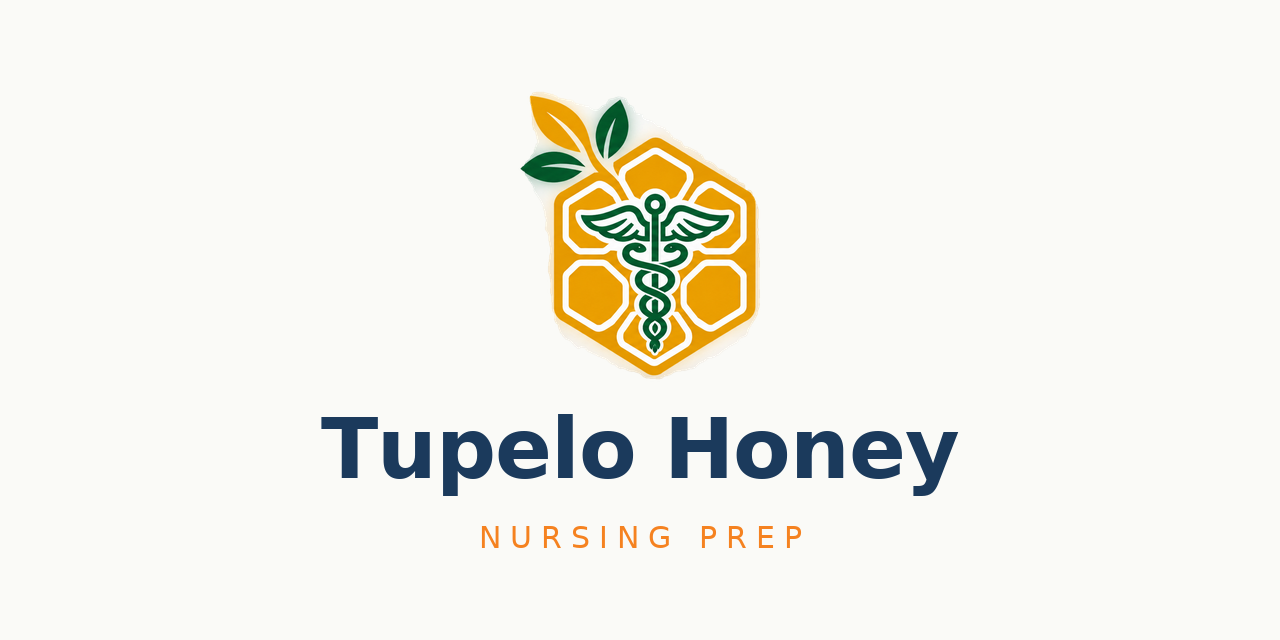
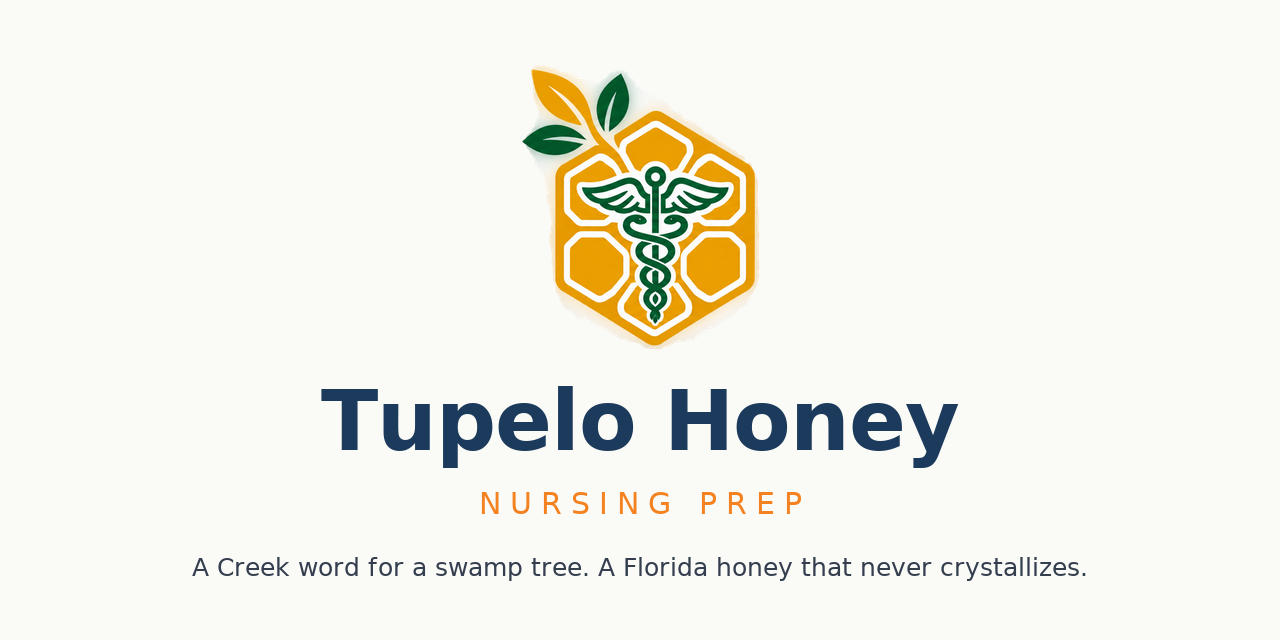
Add the Tupelo Honey naming story to the landing page, README, and card
Landing page: a Why Tupelo Honey band placed directly after the value-prop
section, paying off the honey language the page already uses, plus a FAQ entry.
README: the full etymology with sources, and an explicit statement of what we
do not claim (the ethnobotany record documents tupelo BARK as medicine, not the
honey; honeybees are not native to the Americas).
Card: regenerated with the tagline so the naming story travels with the image.

Changed region(s): [[0.1562, 0.0938, 0.8438, 0.9062]]

diff --git a/templates/landing.html b/templates/landing.html
@@ -261,6 +261,17 @@
   </div>
 </section>
 
+<section id="why-tupelo">
+  <div class="wrap">
+    <div class="sec-head">
+      <h2>Why Tupelo Honey</h2>
+      <p>The name is Creek: <em>ito</em>, tree, and <em>opilwa</em>, swamp&mdash;the tree that grows with its feet in the water. Southeastern peoples used the tupelo as medicine long before anyone kept bees on this continent.</p>
+      <p style="margin-top:16px">The honey is Florida&rsquo;s own. White tupelo blooms about two weeks a year along the Apalachicola, and it makes the one honey that stays clear when every other honey hardens. It does not crystallize. It does not spoil.</p>
+      <p style="margin-top:16px">That is the standard this app holds to. Clear, and it keeps.</p>
+    </div>
+  </div>
+</section>
+
 <section class="about">
   <div class="wrap">
     <div class="sec-head">
@@ -388,6 +399,10 @@
       <details>
         <summary>Who made Tupelo?</summary>
         <div class="a">Muata Kamdibe, Sr., a veteran educator with over 25 years of collegiate teaching and tutoring-center leadership.</div>
+      </details>
+      <details>
+        <summary>Why is it called Tupelo Honey?</summary>
+        <div class="a">Tupelo is a Creek word: <em>ito</em> (tree) and <em>opilwa</em> (swamp). Southeastern peoples used the tupelo tree as medicine long before honeybees reached this continent. Florida&rsquo;s white tupelo honey is the one honey that stays clear instead of crystallizing&mdash;the standard we hold this app to.</div>
       </details>
     </div>
   </div>

diff --git a/README.md b/README.md
@@ -19,6 +19,31 @@ link — that's the whole gate.
 
 ---
 
+## Why Tupelo Honey
+
+The name is Creek: *ito*, tree, and *opilwa*, swamp. The tree that grows with its
+feet in the water. Southeastern peoples used the tupelo as medicine long before
+anyone kept bees on this continent.
+
+Tupelo honey is Florida's own. White tupelo (*Nyssa ogeche*) blooms for about two
+weeks a year along the lower Apalachicola, around Wewahitchka. It makes the one
+honey that stays clear when every other honey hardens, because its
+fructose-to-glucose ratio is the highest of any commercial honey, about 1.65:1
+(USDA dataset compiled by Jonathan W. White Jr., 1975). It does not crystallize.
+It does not spoil.
+
+That is the standard this app holds to.
+
+**What we do not claim.** The ethnobotany record documents Southeastern peoples
+using tupelo *bark* as medicine, not the honey. Honeybees are not native to the
+Americas, so pre-contact Florida had no honeybee honey at all. We name the app
+for the tree and the land, not for a medicinal claim the record does not
+support. Sources: Swanton, *Religious Beliefs and Medical Practices of the Creek
+Indians*, SI-BAE Annual Report #42 (1928); BRIT Native American Ethnobotany
+Database.
+
+---
+
 ## Why this exists
 
 I built Tupelo with AI — on purpose.
